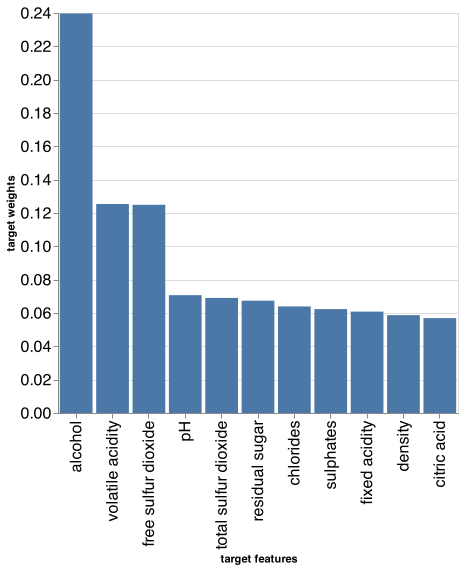
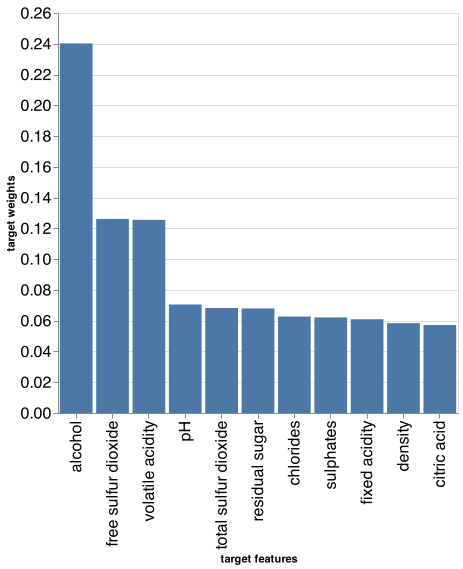
updated numbers to be consistent, removed mean squred error from tables, updated scripts with random.seeds locked

diff --git a/doc/white_wine_predict_report.html b/doc/white_wine_predict_report.html
@@ -603,13 +603,13 @@ body {
 <h1 id="predicting-quality-of-white-wine-from-various-characteristics">Predicting quality of white wine from various characteristics</h1>
 <p>DSCI 522 group 27</p>
 <h1 id="summary"><strong>Summary</strong></h1>
-<p>In this project we tested multiple machine learning models including dummy regressor, ridge and random forest regressor in order to assess how effectively each was able to build a regression model for predicting the quality scores of white wine based on the results physicochemical tests performed on each beverage. We carried out cross-validation on these three models and found that a random forest regressor achieved the best performance based on the metric of r2 scoring. We further refined the random forest regressor model through random search hyperparameter optimization and observed an r2 test score of 0.492 with a negative mean absolute error of -0.443 (note that we have imbalanced data, complicating this scoring process). We attempted to drop features with low target weights, however, this resulted in a model that performed worse on our data. Moreover, given the observed r2 scores, a random forest regressor may not be an appropriate model to use here. Ways that our model could be further improved would be to investigate the use of other complex models to improve our test scores, scoring on different metrics to guide our model selection and hyperparameter tuning, further hyperparameter tuning with our current model, or the use of more effective feature selection methods. Additionally, we could also experiment with changing the prediction task from a regression problem to a classification problem in order to potentially better match our dataset.</p>
+<p>In this project we tested multiple machine learning models including dummy regressor, ridge and random forest regressor in order to assess how effectively each was able to build a regression model for predicting the quality scores of white wine based on the results physicochemical tests performed on each beverage. We carried out cross-validation on these three models and found that a random forest regressor achieved the best performance based on the metric of r2 scoring. We further refined the random forest regressor model through random search hyperparameter optimization and observed an r2 test score of 0.495 with a negative mean absolute error of -0.441 (note that we have imbalanced data, complicating this scoring process). We attempted to drop features with low target weights, however, this resulted in a model that performed worse on our data. Moreover, given the observed r2 scores, a random forest regressor may not be an appropriate model to use here. Ways that our model could be further improved would be to investigate the use of other complex models to improve our test scores, scoring on different metrics to guide our model selection and hyperparameter tuning, further hyperparameter tuning with our current model, or the use of more effective feature selection methods. Additionally, we could also experiment with changing the prediction task from a regression problem to a classification problem in order to potentially better match our dataset.</p>
 <h1 id="introduction"><strong>Introduction</strong></h1>
 <p>The wine market is a multi-billion dollar industry with various consumers worldwide. For some manufacturers, the quality of their wine can significantly affect the sales of their product, with the personal tastes of judges typically representing a standard of quality for the given beverage. In order to challenge this, we can establish a model tuned through machine learning to estimate the quality of alcoholic drinks based on specific chemical properties of each beverage. However, this task will likely require a lot of insider knowledge. We found a paper by Dr. P. Cortez, Dr. A. Cerdeira, Dr. F. Almeida, Dr. T. Matos and Dr. J. Reis, where they were able to demonstrate the results of a data mining approach which demonstrated promising results compared to alternative neural network methods (Cortez et al. 2009).</p>
 <p>Here we want to try different regression models to predict the wine quality based on the results of various physicochemical tests performed on each individual product. The results of this experiment could be used in support of the wine tasting evaluations of oenologists and contribute to improved wine production quality (Cortez et al. 2009).</p>
 <h1 id="methods"><strong>Methods</strong></h1>
 <h2 id="data"><strong>Data</strong></h2>
-<p>The dataset used in this project was retrieved from the University of California Irvine (UCI) machine learning repository and was collected by Paulo Cortez, University of Minho, Guimarães, Portugal and A. Cerdeira, F. Almeida, T. Matos with help from J. Reis, Viticulture Commission of the Vinho Verde Region(CVRVV), Porto, Portugal in 2009. This dataset contains the results of various physiochemical test (including scoring for properties such as alcohol content, pH, and residual sugar) which were preformed on white “Vinho Verde” wine samples from Northern Portugal. The data can be found <a href="https://archive.ics.uci.edu/ml/datasets/wine+quality">here</a>, with the <a href="%5Bhttps://archive.ics.uci.edu/ml/machine-learning-databases/wine-quality/winequality-white.csv">white wine dataset</a> being the specific document used in our analysis. No additional features or specific branding of each wine is available in the dataset for privacy purposes. Each row in the dataset represents a single wine which was tested and scored based on human sensory data.</p>
+<p>The dataset used in this project was retrieved from the University of California Irvine (UCI) machine learning repository and was collected by Paulo Cortez, University of Minho, Guimarães, Portugal and A. Cerdeira, F. Almeida, T. Matos with help from J. Reis, Viticulture Commission of the Vinho Verde Region(CVRVV), Porto, Portugal in 2009. This dataset contains the results of various physiochemical test (including scoring for properties such as alcohol content, pH, and residual sugar) which were preformed on white “Vinho Verde” wine samples from Northern Portugal. The data can be found <a href="https://archive.ics.uci.edu/ml/datasets/wine+quality">here</a>, with the <a href="https://archive.ics.uci.edu/ml/machine-learning-databases/wine-quality/">white wine dataset</a> being the specific document used in our analysis. No additional features or specific branding of each wine is available in the dataset for privacy purposes. Each row in the dataset represents a single wine which was tested and scored based on human sensory data.</p>
 <h2 id="analysis"><strong>Analysis</strong></h2>
 <p>A regression model was built with python scripts using the sk-learn <code>RandomForestRegressor</code> algorithm and allowed us to predict a sensory score based on the physiochemical testing information recorded for each wine(Van Rossum and Drake 2009), (Pedregosa et al. 2011). Due to privacy constraints the dataset is somewhat limited in scope. This means that factors that could potentially influence the scoring of each wine such as grape types, brand names, and price have been omitted. Assumptions made regarding this dataset are that the quality scores came from the opinions of wine critics and that testing for all wines was consistent. It is unclear what information the wine critics had access to when assessing each wine (i.e. if scoring was done with a blind taste test or if the judges were aware of factors such as the price of each wine). All models built in our analysis were fit using all of the variables from the dataset. Hyperparameters <code>n_estimators</code> and <code>max_depth</code> were optimized via random search while all other hyperparameters used the default sklearn <code>RandomForestRegressor</code> values. The data was processed using the pandas package and EDA was performed using the pandas-profiling package (team 2020) (Brugman 2019). This document was compiled using an R document file with scripts run using the docopt package (R Core Team 2019), (de Jonge 2020). Tables were stored using feather files (with dependency on arrow) and displayed using knitr’s kable function (Wickham 2019), (François et al. 2020), (Xie 2020). This document was compiled using rmarkdown (Allaire et al. 2020).</p>
 <h1 id="results--discussion"><strong>Results &amp; Discussion</strong></h1>
@@ -637,27 +637,15 @@ datasets.
 <tbody>
 <tr class="odd">
 <td align="left">fit_time</td>
-<td align="right">0.0008088</td>
-<td align="right">0.0028303</td>
-<td align="right">1.1967660</td>
+<td align="right">0.0008497</td>
+<td align="right">0.0031444</td>
+<td align="right">1.1610476</td>
 </tr>
 <tr class="even">
 <td align="left">score_time</td>
-<td align="right">0.0007393</td>
-<td align="right">0.0022720</td>
-<td align="right">0.0184551</td>
-</tr>
-<tr class="odd">
-<td align="left">test_neg_mean_squared_error</td>
-<td align="right">-0.7899251</td>
-<td align="right">-0.5794524</td>
-<td align="right">-0.3924718</td>
-</tr>
-<tr class="even">
-<td align="left">train_neg_mean_squared_error</td>
-<td align="right">-0.7896847</td>
-<td align="right">-0.5687437</td>
-<td align="right">-0.0553803</td>
+<td align="right">0.0005714</td>
+<td align="right">0.0020081</td>
+<td align="right">0.0163748</td>
 </tr>
 <tr class="odd">
 <td align="left">test_neg_mean_absolute_error</td>
@@ -686,7 +674,7 @@ datasets.
 </tbody>
 </table>
 <p>Table 1. Table of cross-validation results for each tested model</p>
-<p>We found that random forest classifier worked best with our dataset and decided to perform random search hyperparameter optimization (with 28 iterations) to tune the hyperparameters <code>n_estimators</code> and <code>max_depth</code>, for which we obtained the best values of 2000 and 30, respectively. Running <code>RandomForestRegressor</code> with these hyperparameters resulted in a training r2 score of 0.931 and a validation r2 score of 0.504 (Table 2).</p>
+<p>We found that <code>RandomForestRegressor</code> worked best with our dataset and decided to perform random search hyperparameter optimization (with 28 iterations) to tune the hyperparameters <code>n_estimators</code> and <code>max_depth</code>, for which we obtained the best values of 2000 and 30, respectively. Running <code>RandomForestRegressor</code> with these hyperparameters resulted in a training r2 score of 0.933 and a validation r2 score of 0.506 (Table 2).</p>
 <table>
 <thead>
 <tr class="header">
@@ -697,19 +685,11 @@ datasets.
 <tbody>
 <tr class="odd">
 <td align="left">fit_time</td>
-<td align="right">23.2640579</td>
+<td align="right">22.1332973</td>
 </tr>
 <tr class="even">
 <td align="left">score_time</td>
-<td align="right">0.2973605</td>
-</tr>
-<tr class="odd">
-<td align="left">test_neg_mean_squared_error</td>
-<td align="right">-0.3898822</td>
-</tr>
-<tr class="even">
-<td align="left">train_neg_mean_squared_error</td>
-<td align="right">-0.0532080</td>
+<td align="right">0.2808559</td>
 </tr>
 <tr class="odd">
 <td align="left">test_neg_mean_absolute_error</td>
@@ -730,7 +710,7 @@ datasets.
 </tbody>
 </table>
 <p>Table 2. Cross-validation training results of the tuned random forest regression model</p>
-<p>Running our hyperparameter tuned <code>RandomForestRegressor</code> model on our test data resulted in an r2 test score of 0.492 and a negative mean absolute error of -0.444 (Table 3). These results are comparable to those that we observed in our validation scoring, which produced similar values (with r2 scoring differing by only about 0.01).</p>
+<p>Running our hyperparameter tuned <code>RandomForestRegressor</code> model on our test data resulted in an r2 test score of 0.495 and a negative mean absolute error of -0.441 (Table 3). These results are comparable to those that we observed in our validation scoring, which produced similar values.</p>
 <table>
 <thead>
 <tr class="header">
@@ -744,10 +724,6 @@ datasets.
 <td align="right">-0.4411732</td>
 </tr>
 <tr class="even">
-<td align="left">neg_mean_squared_error</td>
-<td align="right">-0.3873119</td>
-</tr>
-<tr class="odd">
 <td align="left">r2</td>
 <td align="right">0.4954661</td>
 </tr>
@@ -765,7 +741,7 @@ our RandomForestRegressor model.
 
 </div>
 
-<p>In an attempt to further improve the scoring of our model we decided to drop all features with a target weight lower than 0.10, meaning we decided to run a model that predicted quality scores based on the features alcohol, free sulfur dioxide, and volatile acidity. Thus we ran the model again with only these features and observed an improved training r2 score of 0.713 but a decreased validation r2 score of 0.377 (Table 4). This marks a decrease in both training and validation scores compared to our version of the model which did not have these features removed.</p>
+<p>In an attempt to further improve the scoring of our model we decided to drop all features with a target weight lower than 0.10, meaning we decided to run a model that predicted quality scores based on the features alcohol, free sulfur dioxide, and volatile acidity. Thus we ran the model again with only these features and observed an improved training r2 score of 0.821 but a decreased validation r2 score of 0.381 (Table 4). This marks a decrease in both training and validation scores compared to our version of the model which did not have these features removed.</p>
 <table>
 <thead>
 <tr class="header">
@@ -776,19 +752,11 @@ our RandomForestRegressor model.
 <tbody>
 <tr class="odd">
 <td align="left">fit_time</td>
-<td align="right">5.0925729</td>
+<td align="right">4.8833580</td>
 </tr>
 <tr class="even">
 <td align="left">score_time</td>
-<td align="right">0.2076304</td>
-</tr>
-<tr class="odd">
-<td align="left">test_neg_mean_squared_error</td>
-<td align="right">-0.4881840</td>
-</tr>
-<tr class="even">
-<td align="left">train_neg_mean_squared_error</td>
-<td align="right">-0.1410332</td>
+<td align="right">0.2014073</td>
 </tr>
 <tr class="odd">
 <td align="left">test_neg_mean_absolute_error</td>
@@ -809,7 +777,7 @@ our RandomForestRegressor model.
 </tbody>
 </table>
 <p>Table 4. Tuned (+ reduced features) RandomForestRegressor Cross-validation training results.</p>
-<p>In order to best understand how this reduced model compares to our original model we decided to run the reduced feature model on the test set which returned an r2 score of 0.354 and a negative mean absolute error of -0.528 (Table 5). This is a significant decrease compared to the score of the model from before we removed the features (0.492) marking the removal of all feature except alcohol, free sulfur dioxide, and volatile acidity a poor decision for the scoring quality of our model. This also means that the best model we have built for this data is the one that is represented in table 2 and table 3, and that they represent the highest scoring model we have produced for our dataset.</p>
+<p>In order to best understand how this reduced model compares to our original model we decided to run the reduced feature model on the test set which returned an r2 score of 0.353 and a negative mean absolute error of -0.516 (Table 5). This is a significant decrease compared to the score of the model from before we removed the features (0.495) marking the removal of all feature except alcohol, free sulfur dioxide, and volatile acidity a poor decision for the scoring quality of our model. This also means that the best model we have built for this data is the one that is represented in table 2 and table 3, and that they represent the highest scoring model we have produced for our dataset.</p>
 <table>
 <thead>
 <tr class="header">
@@ -823,10 +791,6 @@ our RandomForestRegressor model.
 <td align="right">-0.5158896</td>
 </tr>
 <tr class="even">
-<td align="left">neg_mean_squared_error</td>
-<td align="right">-0.4967308</td>
-</tr>
-<tr class="odd">
 <td align="left">r2</td>
 <td align="right">0.3529310</td>
 </tr>

diff --git a/src/model_fitting.py b/src/model_fitting.py
@@ -16,7 +16,6 @@ from sklearn.linear_model import Ridge
 from sklearn.dummy import DummyRegressor
 from sklearn.pipeline import make_pipeline, Pipeline
 from sklearn.compose import ColumnTransformer
-from sklearn.metrics import mean_squared_error
 from sklearn.metrics import mean_absolute_error
 from sklearn.metrics import r2_score
 import altair as alt
@@ -62,7 +61,6 @@ def initial_crossval(data_folder, results_folder):
     }
 
     scoring = {
-        "neg_mean_squared_error": "neg_mean_squared_error",
         "neg_mean_absolute_error": "neg_mean_absolute_error",
         "r2": "r2",
     }
@@ -159,7 +157,6 @@ def hyperparameter_tuning(data_folder, results_folder):
 
     results_dict = {}
     scoring = {
-        "neg_mean_squared_error": "neg_mean_squared_error",
         "neg_mean_absolute_error": "neg_mean_absolute_error",
         "r2": "r2",
     }
@@ -180,13 +177,11 @@ def hyperparameter_tuning(data_folder, results_folder):
 
     test_model = random_search.best_estimator_.fit(X_train, y_train)
     y_pred = test_model.predict(X_test)
-    mse = mean_squared_error(y_test, y_pred)
     mae = mean_absolute_error(y_test, y_pred)
     r2 = r2_score(y_test, y_pred)
 
     test_results_dict = {}
     test_results_dict["Test Results"] = {
-        "neg_mean_squared_error": -1 * mse,
         "neg_mean_absolute_error": -1 * mae,
         "r2": r2,
     }
@@ -279,13 +274,11 @@ def hyperparameter_tuning(data_folder, results_folder):
         X_train_reduced, y_train
     )
     y_pred_reduced = reduced_test_model.predict(X_test_reduced)
-    mse = mean_squared_error(y_test, y_pred_reduced)
     mae = mean_absolute_error(y_test, y_pred_reduced)
     r2 = r2_score(y_test, y_pred_reduced)
 
     test_results_dict = {}
     test_results_dict["Test Results"] = {
-        "neg_mean_squared_error": -1 * mse,
         "neg_mean_absolute_error": -1 * mae,
         "r2": r2,
     }

diff --git a/src/eda_figures.py b/src/eda_figures.py
@@ -10,7 +10,7 @@ from docopt import docopt
 import pandas as pd
 import altair as alt
 import os
-
+import random
 
 def make_eda_figures(data_folder, raw_data_file, results_folder):
     """Function for preparing and saving the figures used for the eda analysis of the white wine dataset
@@ -26,6 +26,8 @@ def make_eda_figures(data_folder, raw_data_file, results_folder):
     make_eda_figures('data', 'raw_data.csv', 'results')
 
    """
+    random.seed(2020)
+
     if not type(data_folder) == str:
         raise ValueError("data_folder argument should be passed as str.")
     if not type(raw_data_file) == str:

diff --git a/src/preprocess.py b/src/preprocess.py
@@ -13,7 +13,7 @@ from sklearn.pipeline import make_pipeline
 from sklearn.compose import ColumnTransformer
 import pandas as pd
 import os
-
+import random
 
 def preprocess_data(data_folder, raw_data_file):
     """Function for preprocessing the white wine quality dataset
@@ -30,6 +30,7 @@ def preprocess_data(data_folder, raw_data_file):
     train_df, test_df = preprocess_data('data', 'raw_data.csv')
 
    """
+    random.seed(2020)
     if not type(data_folder) == str:
         raise ValueError("data_folder argument should be passed as str.")
     if not type(raw_data_file) == str:

diff --git a/doc/white_wine_predict_report.md b/doc/white_wine_predict_report.md
@@ -12,8 +12,8 @@ tests performed on each beverage. We carried out cross-validation on
 these three models and found that a random forest regressor achieved the
 best performance based on the metric of r2 scoring. We further refined
 the random forest regressor model through random search hyperparameter
-optimization and observed an r2 test score of 0.492 with a negative mean
-absolute error of -0.443 (note that we have imbalanced data,
+optimization and observed an r2 test score of 0.495 with a negative mean
+absolute error of -0.441 (note that we have imbalanced data,
 complicating this scoring process). We attempted to drop features with
 low target weights, however, this resulted in a model that performed
 worse on our data. Moreover, given the observed r2 scores, a random
@@ -63,7 +63,7 @@ were preformed on white “Vinho Verde” wine samples from Northern
 Portugal. The data can be found
 [here](https://archive.ics.uci.edu/ml/datasets/wine+quality), with the
 [white wine
-dataset](%5Bhttps://archive.ics.uci.edu/ml/machine-learning-databases/wine-quality/winequality-white.csv)
+dataset](https://archive.ics.uci.edu/ml/machine-learning-databases/wine-quality/)
 being the specific document used in our analysis. No additional features
 or specific branding of each wine is available in the dataset for
 privacy purposes. Each row in the dataset represents a single wine which
@@ -123,10 +123,8 @@ the cross-validation values of this testing in Table 1.
 
 | index                             | dummyregressor |      ridge | randomforest |
 |:----------------------------------|---------------:|-----------:|-------------:|
-| fit\_time                         |      0.0008088 |  0.0028303 |    1.1967660 |
-| score\_time                       |      0.0007393 |  0.0022720 |    0.0184551 |
-| test\_neg\_mean\_squared\_error   |     -0.7899251 | -0.5794524 |   -0.3924718 |
-| train\_neg\_mean\_squared\_error  |     -0.7896847 | -0.5687437 |   -0.0553803 |
+| fit\_time                         |      0.0008497 |  0.0031444 |    1.1610476 |
+| score\_time                       |      0.0005714 |  0.0020081 |    0.0163748 |
 | test\_neg\_mean\_absolute\_error  |     -0.6766545 | -0.5909963 |   -0.4585544 |
 | train\_neg\_mean\_absolute\_error |     -0.6765906 | -0.5871736 |   -0.1705949 |
 | test\_r2                          |     -0.0007601 |  0.2655188 |    0.5029517 |
@@ -134,19 +132,17 @@ the cross-validation values of this testing in Table 1.
 
 Table 1. Table of cross-validation results for each tested model
 
-We found that random forest classifier worked best with our dataset and
+We found that `RandomForestRegressor` worked best with our dataset and
 decided to perform random search hyperparameter optimization (with 28
 iterations) to tune the hyperparameters `n_estimators` and `max_depth`,
 for which we obtained the best values of 2000 and 30, respectively.
 Running `RandomForestRegressor` with these hyperparameters resulted in a
-training r2 score of 0.931 and a validation r2 score of 0.504 (Table 2).
+training r2 score of 0.933 and a validation r2 score of 0.506 (Table 2).
 
 | index                             | Tuned Model |
 |:----------------------------------|------------:|
-| fit\_time                         |  23.2640579 |
-| score\_time                       |   0.2973605 |
-| test\_neg\_mean\_squared\_error   |  -0.3898822 |
-| train\_neg\_mean\_squared\_error  |  -0.0532080 |
+| fit\_time                         |  22.1332973 |
+| score\_time                       |   0.2808559 |
 | test\_neg\_mean\_absolute\_error  |  -0.4555802 |
 | train\_neg\_mean\_absolute\_error |  -0.1683919 |
 | test\_r2                          |   0.5061903 |
@@ -156,15 +152,14 @@ Table 2. Cross-validation training results of the tuned random forest
 regression model
 
 Running our hyperparameter tuned `RandomForestRegressor` model on our
-test data resulted in an r2 test score of 0.492 and a negative mean
-absolute error of -0.444 (Table 3). These results are comparable to
+test data resulted in an r2 test score of 0.495 and a negative mean
+absolute error of -0.441 (Table 3). These results are comparable to
 those that we observed in our validation scoring, which produced similar
-values (with r2 scoring differing by only about 0.01).
+values.
 
 | index                      | Test Results |
 |:---------------------------|-------------:|
 | neg\_mean\_absolute\_error |   -0.4411732 |
-| neg\_mean\_squared\_error  |   -0.3873119 |
 | r2                         |    0.4954661 |
 
 Table 3. Tuned RandomForestRegressor model test results.
@@ -191,17 +186,15 @@ drop all features with a target weight lower than 0.10, meaning we
 decided to run a model that predicted quality scores based on the
 features alcohol, free sulfur dioxide, and volatile acidity. Thus we ran
 the model again with only these features and observed an improved
-training r2 score of 0.713 but a decreased validation r2 score of 0.377
+training r2 score of 0.821 but a decreased validation r2 score of 0.381
 (Table 4). This marks a decrease in both training and validation scores
 compared to our version of the model which did not have these features
 removed.
 
 | index                             | Tuned Model (Reduced Features) |
 |:----------------------------------|-------------------------------:|
-| fit\_time                         |                      5.0925729 |
-| score\_time                       |                      0.2076304 |
-| test\_neg\_mean\_squared\_error   |                     -0.4881840 |
-| train\_neg\_mean\_squared\_error  |                     -0.1410332 |
+| fit\_time                         |                      4.8833580 |
+| score\_time                       |                      0.2014073 |
 | test\_neg\_mean\_absolute\_error  |                     -0.5211449 |
 | train\_neg\_mean\_absolute\_error |                     -0.2805931 |
 | test\_r2                          |                      0.3813291 |
@@ -212,9 +205,9 @@ Cross-validation training results.
 
 In order to best understand how this reduced model compares to our
 original model we decided to run the reduced feature model on the test
-set which returned an r2 score of 0.354 and a negative mean absolute
-error of -0.528 (Table 5). This is a significant decrease compared to
-the score of the model from before we removed the features (0.492)
+set which returned an r2 score of 0.353 and a negative mean absolute
+error of -0.516 (Table 5). This is a significant decrease compared to
+the score of the model from before we removed the features (0.495)
 marking the removal of all feature except alcohol, free sulfur dioxide,
 and volatile acidity a poor decision for the scoring quality of our
 model. This also means that the best model we have built for this data
@@ -224,7 +217,6 @@ represent the highest scoring model we have produced for our dataset.
 | index                      | Test Results |
 |:---------------------------|-------------:|
 | neg\_mean\_absolute\_error |   -0.5158896 |
-| neg\_mean\_squared\_error  |   -0.4967308 |
 | r2                         |    0.3529310 |
 
 Table 5. Tuned (+ reduced features) RandomForestRegressor model test

diff --git a/README.md b/README.md
@@ -6,7 +6,7 @@ This is a group project for DSCI 522 in the MDS program at UBC.
 
 ## About
 
-In this project we tested multiple machine learning models including dummy regressor, ridge and random forest regressor in order to assess how effectively each was able to build a regression model for predicting the quality scores of white wine based on the results physicochemical tests performed on each beverage. We carried out cross-validation on these three models and found that a random forest regressor achieved the best performance based on the metric of r2 scoring. We further refined the random forest regressor model through random search hyperparameter optimization and observed an r2 test score of 0.492 with a negative mean absolute error of -0.443 (note that we have imbalanced data, complicating this scoring process). We attempted to drop features with low target weights, however, this resulted in a model that performed worse on our data. Moreover, given the observed r2 scores, a random forest regressor may not be an appropriate model to use here. Ways that our model could be further improved would be to investigate the use of other complex models to improve our test scores, scoring on different metrics to guide our model selection and hyperparameter tuning, further hyperparameter tuning with our current model, or the use of more effective feature selection methods. Additionally, we could also experiment with changing the prediction task from a regression problem to a classification problem in order to potentially better match our dataset.
+In this project we tested multiple machine learning models including dummy regressor, ridge and random forest regressor in order to assess how effectively each was able to build a regression model for predicting the quality scores of white wine based on the results physicochemical tests performed on each beverage. We carried out cross-validation on these three models and found that a random forest regressor achieved the best performance based on the metric of r2 scoring. We further refined the random forest regressor model through random search hyperparameter optimization and observed an r2 test score of 0.495 with a negative mean absolute error of -0.441 (note that we have imbalanced data, complicating this scoring process). We attempted to drop features with low target weights, however, this resulted in a model that performed worse on our data. Moreover, given the observed r2 scores, a random forest regressor may not be an appropriate model to use here. Ways that our model could be further improved would be to investigate the use of other complex models to improve our test scores, scoring on different metrics to guide our model selection and hyperparameter tuning, further hyperparameter tuning with our current model, or the use of more effective feature selection methods. Additionally, we could also experiment with changing the prediction task from a regression problem to a classification problem in order to potentially better match our dataset.
 
 The dataset that was used for this project is of physicochemical features of wines with the corresponding wine quality ratings, this data set was created by Dr. P. Cortez, Dr. A. Cerdeira, Dr. F. Almeida, Dr. T. Matos and Dr. J. Reis. It was sourced from the UCI Machine Learning Repository (Cortez et al., 2009), and you can find it [here](https://archive.ics.uci.edu/ml/datasets/wine+quality). This dataset has two primary groups: white wine data and red wine data. We have chosen to analyse the white wine data since this data has many more observations than the red wine data observations. Note that the quality scores in this wine dataset are based on sensory data and are scored subjectively by reviewers.
 
